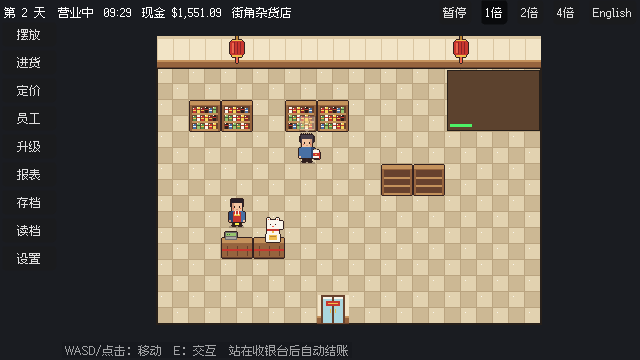
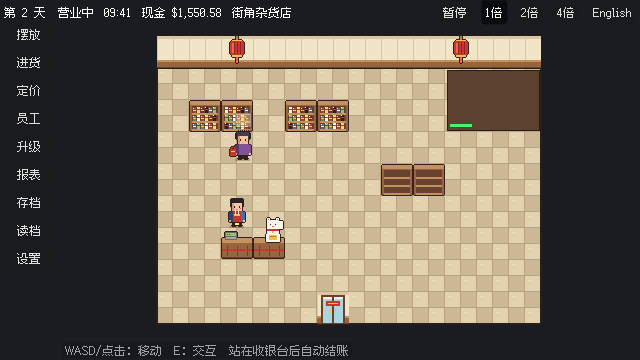
Finish M7: reproducible screenshot tour, clean exit, log open items
The screenshot tour starts from a fixed seed so every scene is reached
run after run, and logs the HUD cash next to the real cash to show the
counter rolling. Ambience and music loops are skipped in headless runs,
where the dummy audio driver never released the looping playback (it
showed as a leak at exit); the ambience now loops via its import
settings. Spec section 9 records the open M7 items: missing art, the
sprite-to-product mapping, the cropped wall at stage 2 and draft copy.

diff --git a/game/scripts/Audio/AudioManager.cs b/game/scripts/Audio/AudioManager.cs
@@ -44,8 +44,12 @@ public partial class AudioManager : Node
             _voices.Add(voice);
         }
 
-        StartLoop("ambient_shop", AudioSettings.SfxBus, AmbienceVolumeDb);
-        StartLoop("music", AudioSettings.MusicBus, MusicVolumeDb, optional: true);
+        // Headless runs (build checks) have no sound, and the dummy audio driver never releases a looping playback.
+        if (DisplayServer.GetName() != "headless")
+        {
+            StartLoop("ambient_shop", AudioSettings.SfxBus, AmbienceVolumeDb);
+            StartLoop("music", AudioSettings.MusicBus, MusicVolumeDb, optional: true);
+        }
 
         host.EventsReady += OnEvents;
         GetTree().NodeAdded += node =>
@@ -80,13 +84,9 @@ public partial class AudioManager : Node
             return;
         }
 
+        // WAV loops are set in the file's import settings (ambient_shop.wav.import); compressed music loops here.
         switch (stream)
         {
-            case AudioStreamWav wav:
-                wav.LoopMode = AudioStreamWav.LoopModeEnum.Forward;
-                wav.LoopBegin = 0;
-                wav.LoopEnd = (int)(wav.GetLength() * wav.MixRate);
-                break;
             case AudioStreamOggVorbis ogg:
                 ogg.Loop = true;
                 break;
@@ -134,6 +134,18 @@ public partial class AudioManager : Node
                     break;
             }
         }
+    }
+
+    /// <summary>Stops and lets go of every stream so nothing (e.g. the looping ambience) is still held at exit.</summary>
+    public override void _ExitTree()
+    {
+        foreach (var player in GetChildren().OfType<AudioStreamPlayer>())
+        {
+            player.Stop();
+            player.Stream = null;
+        }
+
+        _streams.Clear();
     }
 
     public override void _Process(double delta)

diff --git a/game/scripts/Dev/ScreenshotTour.cs b/game/scripts/Dev/ScreenshotTour.cs
@@ -24,6 +24,9 @@ public partial class ScreenshotTour : Node
 {
     private const int MaxWaitFrames = 1800;
 
+    /// <summary>The tour always plays the same store so every scene is reachable run after run.</summary>
+    public const ulong Seed = 20261024;
+
     private readonly Queue<(string Name, Action Setup, Func<bool>? Until, int Frames)> _steps = new();
     private readonly List<SimEvent> _seen = [];
     private string _dir = "";
@@ -98,11 +101,12 @@ public partial class ScreenshotTour : Node
             Hud.Retranslate();
             Store.DebugHover = ShelfCell();
         }, () => true, frames: 20);
-        Live("17-all-customer-types", () =>
+        // The type drawn with a palette swap (Chinese families wear the auntie sprite in other colours).
+        Live("17-recoloured-customer", () =>
         {
             TranslationServer.SetLocale("zh");
             Hud.Retranslate();
-        }, () => Sim.Data.CustomerTypes.All(t => Sim.Customers.Any(c => c.TypeId == t.Id)), frames: 3);
+        }, () => Sim.Customers.Any(c => Sim.Data.CustomerTypes.Single(t => t.Id == c.TypeId).Sprite?.Recolor is { Count: > 0 }), frames: 3);
     }
 
     public override void _Process(double delta)
@@ -117,7 +121,7 @@ public partial class ScreenshotTour : Node
         if (_pending is { } name && --_wait <= 0)
         {
             GetViewport().GetTexture().GetImage().SavePng(_dir.PathJoin(name + ".png"));
-            GD.Print($"Screenshot: {name}");
+            GD.Print($"Screenshot: {name}  (HUD shows {Hud.CashText}, actual cash {UiText.Money(Sim.Economy.CashCents)})");
             _pending = null;
         }
 

diff --git a/game/scripts/SimHost.cs b/game/scripts/SimHost.cs
@@ -79,8 +79,8 @@ public partial class SimHost : Node
         return true;
     }
 
-    /// <summary>Loads data and starts a new game. Returns the data error text, or null on success.</summary>
-    public string? StartNewGame()
+    /// <summary>Loads data and starts a new game (seeded from the clock unless a seed is given). Returns the data error text, or null on success.</summary>
+    public string? StartNewGame(ulong? seed = null)
     {
         var dataDir = ProjectSettings.GlobalizePath("res://").PathJoin("../data").SimplifyPath();
         try
@@ -94,7 +94,7 @@ public partial class SimHost : Node
         }
 
         // The seed only has to differ between games; the Sim itself stays deterministic for a given seed.
-        Sim = new GameSim(Data, (ulong)Time.GetUnixTimeFromSystem());
+        Sim = new GameSim(Data, seed ?? (ulong)Time.GetUnixTimeFromSystem());
         return null;
     }
 

diff --git a/game/scripts/Main.cs b/game/scripts/Main.cs
@@ -21,7 +21,8 @@ public partial class Main : Node2D
 
         _host = new SimHost { Name = "SimHost" };
         AddChild(_host);
-        if (_host.StartNewGame() is { } error)
+        var tour = Dev.ScreenshotTour.RequestedDir() is not null;
+        if (_host.StartNewGame(tour ? Dev.ScreenshotTour.Seed : null) is { } error)
         {
             GetNode<Label>("Error").Text = UiText.T("ui.error.data_invalid") + "\n" + error;
             _host.SetProcess(false);
@@ -47,7 +48,7 @@ public partial class Main : Node2D
         _store.DisplayClicked += hud.ShowShelf;
         _store.FixtureSelected += _ => ui.Notify();
 
-        if (Dev.ScreenshotTour.RequestedDir() is not null)
+        if (tour)
         {
             AddChild(new Dev.ScreenshotTour { Name = "ScreenshotTour", Host = _host, Ui = ui, Store = _store, Hud = hud });
         }

diff --git a/game/scripts/Ui/Hud.cs b/game/scripts/Ui/Hud.cs
@@ -223,6 +223,9 @@ public partial class Hud : Control
         panel.Open();
     }
 
+    /// <summary>The cash figure as currently shown (it counts toward the real amount).</summary>
+    public string CashText => _cash.Text;
+
     public void ShowPanel<T>() where T : PanelBase => ShowOnly(_panels.OfType<T>().Single());
 
     public void CloseAllPanels()
